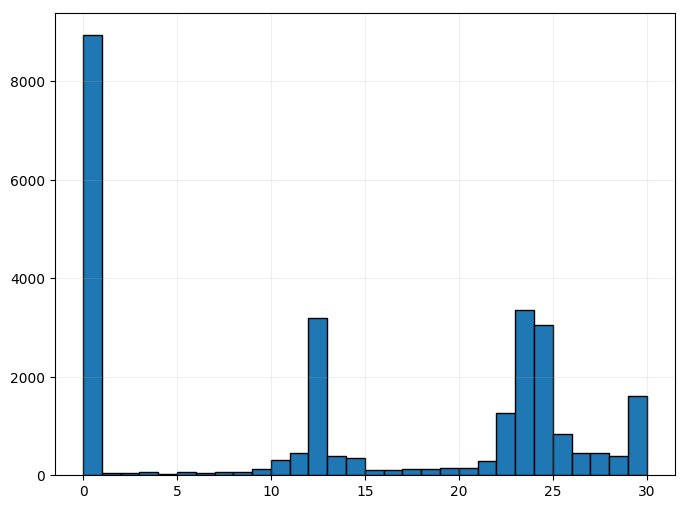
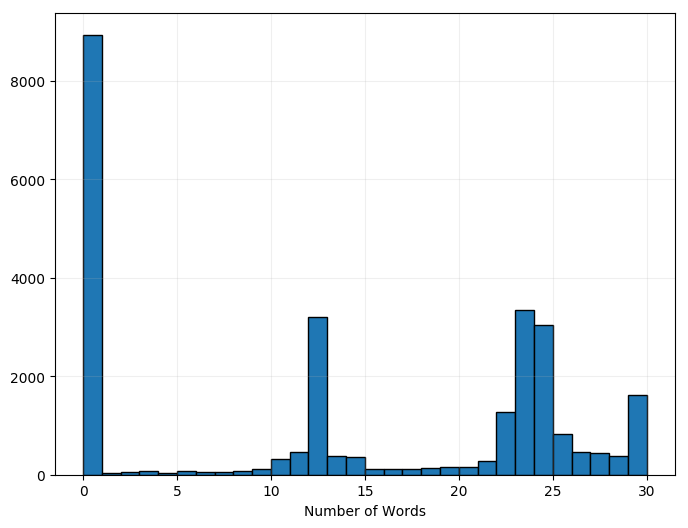
Added plots/

diff --git a/meta-analysis/plot_counts.py b/meta-analysis/plot_counts.py
@@ -1,0 +1,44 @@
+""" 
+
+Plot classes and images per class.
+
+"""
+
+import argparse
+import matplotlib.pyplot as plt
+import numpy as np
+import pandas as pd
+import os
+
+if __name__ == "__main__":
+
+    parser = argparse.ArgumentParser()
+    parser.add_argument('--input', required=True, type=str)
+    parser.add_argument('--output', required=True, type=str)
+    args = parser.parse_args()
+
+    folders = 0
+    count = 0 
+    data = {}
+    data['label'] = []
+    data['nimages'] = []
+    for folder, _, files in os.walk(args.input):
+        data['label'].append(folder.split('/')[-1])
+        data['nimages'].append(len(files))
+
+    df = pd.DataFrame(data)
+
+    plt.figure(figsize=(8,6))
+    plt.hist(df['nimages'], bins=np.linspace(0,5000,40), edgecolor='k')
+    plt.grid(alpha=0.2)
+    plt.xlabel('Images/Class')
+    plt.savefig(args.output + '/hist_nimages.png', bbox_inches='tight')
+    plt.close()
+
+    plt.figure(figsize=(8,24))
+    plt.barh(df['label'], df['nimages'], edgecolor='k')
+    plt.ylabel('Class')
+    plt.xlabel('Number of Images')
+    plt.savefig(args.output + '/barh_nimages.png', bbox_inches='tight')
+    plt.close()
+    

diff --git a/meta-analysis/plot_tesseract.py b/meta-analysis/plot_tesseract.py
@@ -53,12 +53,14 @@ if __name__ == "__main__":
     plt.figure(figsize=(8,6))
     plt.hist(data['n_words'], bins=np.linspace(0,30,31), edgecolor='k')
     plt.grid(alpha=0.2)
+    plt.xlabel('Number of Words')
     plt.savefig(args.output + '/hist_nwords_zoom.png', bbox_inches='tight')
     plt.close()
 
     plt.figure(figsize=(8,6))
     plt.hist(data['n_words'], bins=np.linspace(0,200,20), edgecolor='k')
     plt.grid(alpha=0.2)
+    plt.xlabel('Number of Words')
     plt.savefig(args.output + '/hist_nwords.png', bbox_inches='tight')
     plt.close()
 
